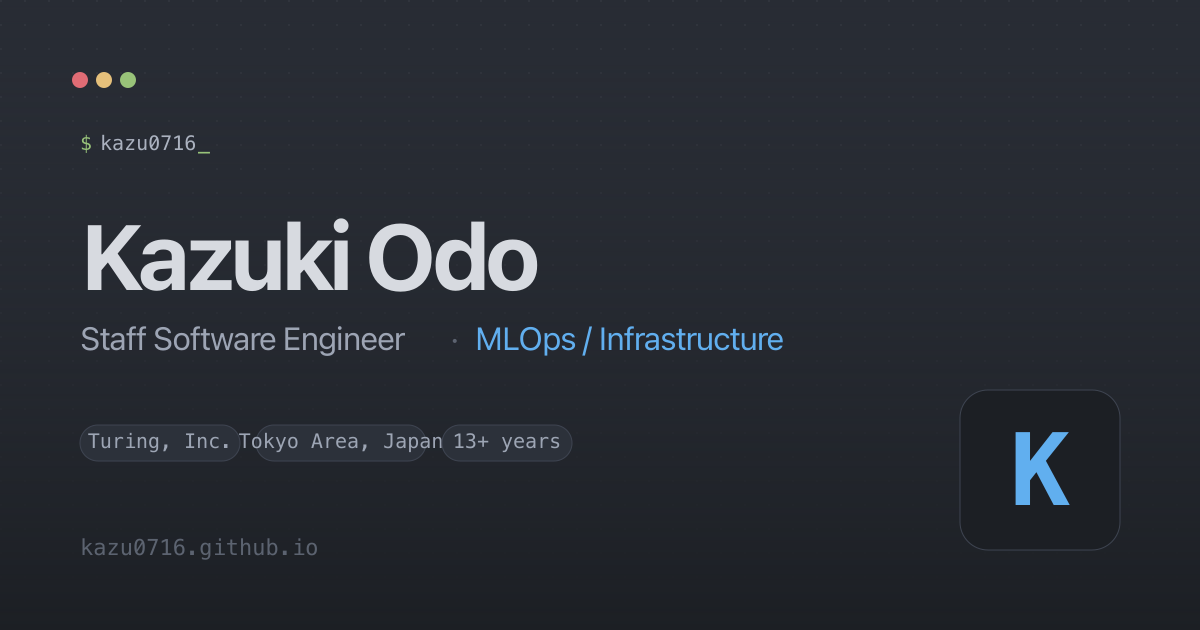
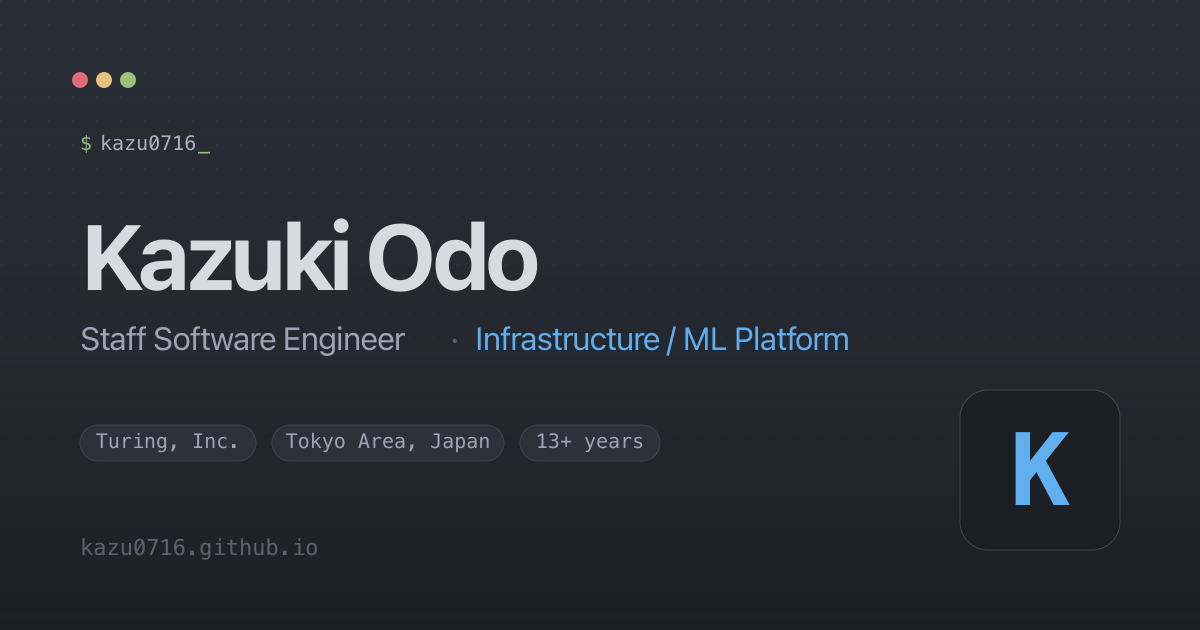
Split Turing role into MLOps/Infrastructure; add HyperPod articles, PEK slides, Datadog OSS
- Split Turing experience: MLOps (Oct 2025 - Jun 2026) and Infrastructure
  (Jul 2026 - present), both as Staff Software Engineer
- Keep Turing copy within public sources (PEK2026 talk/slides, Turing Tech
  Blog): drop unpublished dataset-tooling details, exact storage sizes, and
  vendor/environment names
- Add HyperPod series part 1/2 Zenn articles; link PEK2026 talk to the
  Speaker Deck slides with a secondary "session" link
- Add DataDog/integrations-core (Lustre/Slurm bugs fixed upstream) to OSS
- Label Google Cloud role as Gaming, Media & Entertainment
- Update subtitle to "Infrastructure / ML Platform" across hero, meta,
  README, and OG image; widen OG badges so labels no longer overflow

Changed region(s): [[0.4008, 0.5127, 0.7092, 0.573], [0.0617, 0.6937, 0.555, 0.7238]]

diff --git a/src/data/resume.ts b/src/data/resume.ts
@@ -41,12 +41,14 @@ export type WritingItem = {
   date: string;
   kind: WritingKind;
   lang?: "ja";
+  /** Secondary links shown next to the outlet (e.g. the event's session page). */
+  links?: { label: string; url: string }[];
 };
 
 export const profile = {
   name: "Kazuki Odo",
   title: "Staff Software Engineer",
-  subtitle: "MLOps / Infrastructure",
+  subtitle: "Infrastructure / ML Platform",
   tags: ["Turing, Inc.", "Tokyo Area, Japan", "13+ years"],
   lead:
     "I turn complex technical challenges into scalable, business-aligned platforms. Full-stack, SRE/DRE, DevOps, and ML platform engineering across multi-cloud (AWS, GCP, Azure) and on-prem — from design to large-scale production.",
@@ -81,21 +83,35 @@ export const navItems = [
 ] as const;
 
 export const about: string[] = [
-  "I'm a software engineer specializing in ML platforms and infrastructure. Currently leading MLOps and infra initiatives at Turing, where a three-person platform team builds and operates 1,000+ GPUs of Slurm-based training infrastructure across AWS, GCP, and on-prem to accelerate autonomous-driving research.",
+  "I'm a software engineer specializing in GPU infrastructure and ML platforms. At Turing, I joined the MLOps team in October 2025 and moved to the infrastructure team in July 2026. Our small team builds and operates 1,000+ GPUs of Slurm-based training infrastructure across on-prem, a domestic GPU cloud, AWS, and Google Cloud for fully autonomous driving development.",
   "Before Turing, I worked across SRE at Splunk (Cisco), ML platform engineering at Preferred Networks on MATLANTIS, customer engineering at Google Cloud, and backend / SRE / security engineering at Recruit and NTT Communications.",
 ];
 
 export const experience: Experience[] = [
   {
-    role: "Staff Software Engineer — MLOps / Infrastructure",
+    role: "Staff Software Engineer — Infrastructure",
     org: "Turing, Inc.",
     orgUrl: "https://tur.ing/en/",
-    period: "Oct 2025 — Present",
+    period: "Jul 2026 — Present",
     location: "Tokyo",
     highlights: [
-      "Build and operate 1,000+ GPUs of training infrastructure across AWS, GCP, and on-prem with a three-person platform team — from standing up a 240-GPU (NVIDIA H200) Slurm cluster on Google Cloud in two weeks, to scaling Lustre storage from 36 TB to 504 TB in production and running cross-cloud data pipelines — everything managed as code.",
-      "Develop dataset-management software in Go — gRPC / REST services that automate dataset download, placement, and cleanup across every cluster — plus high-throughput downloaders and streaming data loaders for large-scale video training data.",
-      "Keep large GPU fleets reliable with a small team: observability as code, incident response, self-healing node recovery, and runbook automation.",
+      "Build and operate Slurm-based GPU training clusters — 1,000+ GPUs across on-prem, a domestic GPU cloud, AWS, and Google Cloud — with a small infrastructure team supporting fully autonomous driving development.",
+      "Extend IaC and CI/CD (Terraform, Terragrunt, GitHub Actions) from the clouds to existing environments, splitting node configuration across boot images (Packer), startup scripts, and Ansible, and rolling out changes by draining nodes first to limit impact on training jobs.",
+      "Worked with AWS to isolate FSx for Lustre I/O stalls on SageMaker HyperPod and cut over to a rebuilt cluster on custom AMIs; completed a blue-green migration of the Google Cloud cluster's Managed Lustre to a larger instance.",
+      "Make room for improvement work with observability as code (Datadog), runbooks built from incident records, and AI-assisted first-pass investigation — while operators still assess impact on shared infrastructure and decide what to adopt.",
+      "Share platform knowledge through user guides written for both people and AI agents, and internal infrastructure study sessions.",
+    ],
+  },
+  {
+    role: "Staff Software Engineer — MLOps",
+    org: "Turing, Inc.",
+    orgUrl: "https://tur.ing/en/",
+    period: "Oct 2025 — Jun 2026",
+    location: "Tokyo",
+    highlights: [
+      "Built and operated cloud GPU clusters for autonomous-driving model training: a SageMaker HyperPod + Slurm + FSx for Lustre cluster on AWS (AWS CDK, Terraform), and a 240-GPU (NVIDIA H200) Slurm cluster on Google Cloud stood up in two weeks (Cluster Toolkit, Terraform / Terragrunt, Packer, Ansible).",
+      "Designed and developed a management system for large-scale training datasets.",
+      "Automated detection and replacement of failed nodes on SageMaker HyperPod.",
     ],
   },
   {
@@ -126,7 +142,7 @@ export const experience: Experience[] = [
     ],
   },
   {
-    role: "Customer Engineer — Google Cloud",
+    role: "Customer Engineer — Google Cloud (Gaming, Media & Entertainment)",
     org: "Google Cloud Japan",
     orgUrl: "https://cloud.google.com/",
     period: "Jun 2021 — Mar 2023",
@@ -217,6 +233,7 @@ export const skillGroups: SkillGroup[] = [
     items: [
       "Slurm",
       "SageMaker HyperPod",
+      "Cluster Toolkit",
       "Lustre",
       "Vertex AI",
       "Databricks",
@@ -251,8 +268,10 @@ export const skillGroups: SkillGroup[] = [
     title: "Practices",
     items: [
       "SRE",
+      "Platform Engineering",
       "DevOps",
       "Incident Response",
+      "AI-assisted Operations",
       "Agile",
       "Stakeholder Collaboration",
     ],
@@ -325,6 +344,13 @@ export const education = {
 
 export const oss: OSSContribution[] = [
   {
+    name: "DataDog/integrations-core",
+    url: "https://github.com/DataDog/integrations-core/issues?q=is%3Aissue%20author%3Akazu0716",
+    description:
+      "Reported bugs in the Lustre and Slurm integrations found while monitoring GPU clusters — missing client stats on FSx for Lustre (Lustre 2.15.x) and noisy Slurm error logging. Both were fixed upstream (Agent 7.83 / 7.85).",
+    tags: ["Datadog", "Lustre", "Slurm", "Observability"],
+  },
+  {
     name: "cloudspannerecosystem/spanner-stress-test-demo",
     url: "https://github.com/cloudspannerecosystem/spanner-stress-test-demo",
     description: "Stress-testing demo for Cloud Spanner workloads.",
@@ -342,12 +368,36 @@ export const oss: OSSContribution[] = [
 export const writing: WritingItem[] = [
   {
     title:
+      "Slurm運用に慣れた私たちが、AWSのマネージドSlurm運用でつまずいた6つのこと",
+    url: "https://zenn.dev/turing_motors/articles/hyperpod-again-part2-hyperpod-slurm",
+    outlet: "Zenn (Turing Tech Blog)",
+    date: "2026-10",
+    kind: "Article",
+    lang: "ja",
+  },
+  {
+    title:
+      "Full-Managed のその奥は？ FSx for Lustre の I/O 問題を AWS と一緒に切り分ける",
+    url: "https://zenn.dev/turing_motors/articles/hyperpod-again-part1-efa-lustre",
+    outlet: "Zenn (Turing Tech Blog)",
+    date: "2026-09",
+    kind: "Article",
+    lang: "ja",
+  },
+  {
+    title:
       "3人で1000GPU超を統合運用する？マルチクラウド＆オンプレを跨ぐ、構築と運用のリアル！",
-    url: "https://www.cnia.io/pek2026/sessions/b824c064-cd52-428d-a00d-cd62470e9093/",
+    url: "https://speakerdeck.com/kazukun0716/3-hito-de-1000gpu-chou-o-tougou-unyou-suru-o-matagu-kouchiku-to-unyou-no-riaru",
     outlet: "Platform Engineering Kaigi 2026",
     date: "2026-09",
     kind: "Talk",
     lang: "ja",
+    links: [
+      {
+        label: "session",
+        url: "https://www.cnia.io/pek2026/sessions/b824c064-cd52-428d-a00d-cd62470e9093/",
+      },
+    ],
   },
   {
     title:

diff --git a/src/components/Writing.tsx b/src/components/Writing.tsx
@@ -13,15 +13,15 @@ const kindStyle: Record<WritingKind, string> = {
 
 const PAGE_SIZE = 5;
 
+/** The whole row is clickable via a stretched pseudo-element on the title
+ *  link; secondary links sit above it (`relative z-10`) so they stay
+ *  separately clickable without nesting anchors. */
 function WritingRow({ item, first }: { item: WritingItem; first: boolean }) {
   return (
-    <li className={`py-3.5 ${first ? "" : "border-t border-ink-3"}`}>
-      <a
-        href={item.url}
-        target="_blank"
-        rel="noopener noreferrer"
-        className="group grid gap-1 sm:grid-cols-[88px_1fr] sm:items-baseline sm:gap-5"
-      >
+    <li
+      className={`relative py-3.5 ${first ? "" : "border-t border-ink-3"}`}
+    >
+      <div className="grid gap-1 sm:grid-cols-[88px_1fr] sm:items-baseline sm:gap-5">
         <span className="font-mono text-[0.78rem] text-yellow">
           {item.date}
         </span>
@@ -41,21 +41,41 @@ function WritingRow({ item, first }: { item: WritingItem; first: boolean }) {
                 JA only
               </span>
             )}
-            <span className="text-cream-1 transition-colors group-hover:text-blue">
+            <a
+              href={item.url}
+              target="_blank"
+              rel="noopener noreferrer"
+              className="peer text-cream-1 transition-colors after:absolute after:inset-0 hover:text-blue focus-visible:text-blue"
+            >
               {item.title}
-            </span>
+            </a>
             <span
               aria-hidden="true"
-              className="font-mono text-orange transition-transform group-hover:translate-x-0.5"
+              className="pointer-events-none font-mono text-orange transition-transform peer-hover:translate-x-0.5 peer-focus-visible:translate-x-0.5"
             >
               →
             </span>
           </div>
           <span className="font-mono text-[0.78rem] text-cream-4">
             {item.outlet}
+            {item.links?.map((link) => (
+              <span key={link.url}>
+                <span aria-hidden="true" className="mx-1.5">
+                  ·
+                </span>
+                <a
+                  href={link.url}
+                  target="_blank"
+                  rel="noopener noreferrer"
+                  className="relative z-10 border-b border-dotted border-cream-4/50 text-cream-2 transition-colors hover:border-blue hover:text-blue"
+                >
+                  {link.label} ↗
+                </a>
+              </span>
+            ))}
           </span>
         </div>
-      </a>
+      </div>
     </li>
   );
 }

diff --git a/src/components/Hero.tsx b/src/components/Hero.tsx
@@ -31,8 +31,9 @@ export default function Hero() {
       <ul className="mb-7 flex flex-col gap-1.5 text-cream-2">
         <li className="relative pl-[18px]">
           <span className="absolute left-0 top-0 text-orange">▸</span>
-          Rapidly delivered ML training infrastructure and operational
-          improvements for large-scale research workloads.
+          Stood up a 240-GPU Slurm cluster on Google Cloud in two weeks; now
+          operate 1,000+ GPUs across on-prem and multi-cloud with a small
+          infrastructure team.
         </li>
         <li className="relative pl-[18px]">
           <span className="absolute left-0 top-0 text-orange">▸</span>

diff --git a/README.md b/README.md
@@ -1,7 +1,7 @@
 # kazu0716.github.io
 
-Personal portfolio for **Kazuki Odo** — Staff Software Engineer (MLOps /
-Infrastructure) at Turing.
+Personal portfolio for **Kazuki Odo** — Staff Software Engineer (Infrastructure /
+ML Platform) at Turing.
 
 Live: <https://kazu0716.github.io>
 
